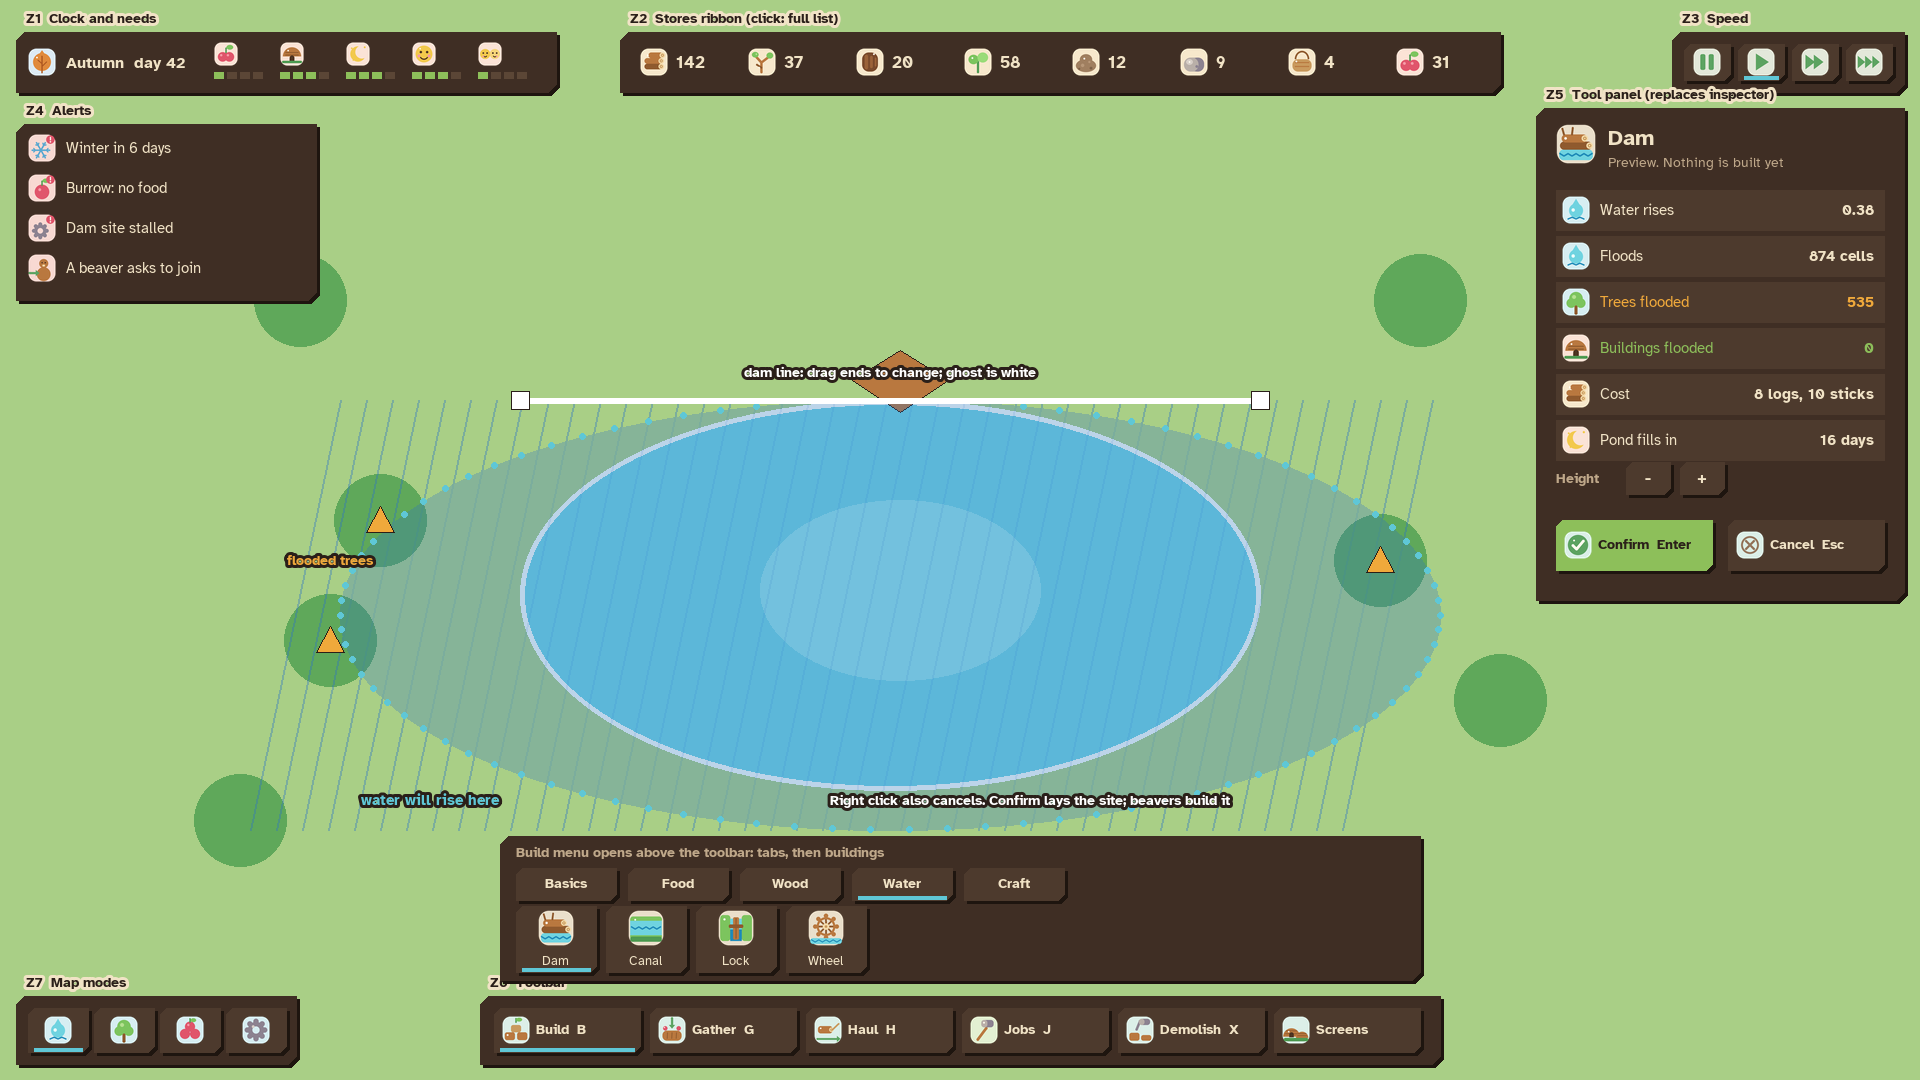
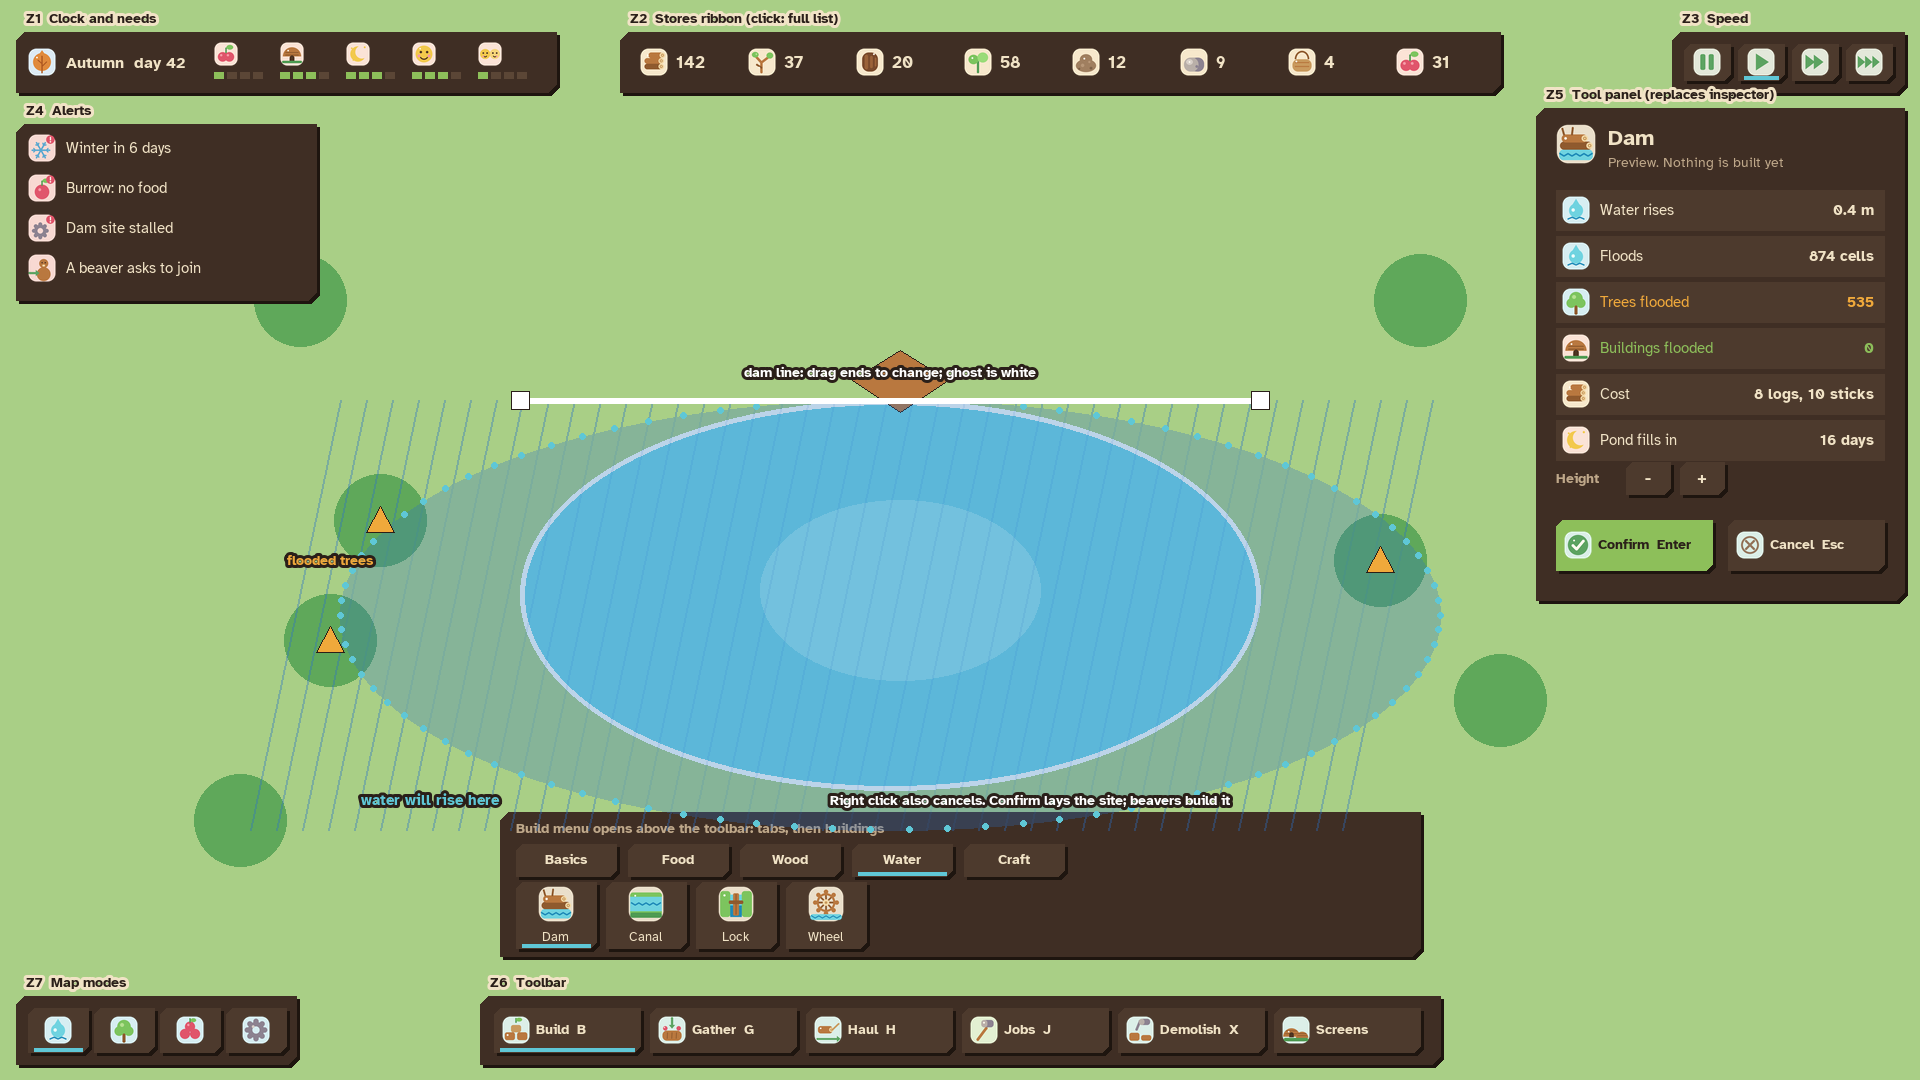
UI spec: check every replaced/removed file against its callers; keep opening.rs, move orders.rs contents; add flow_view.rs and sim_driver.rs; wireframe label and unit fixes

Changed region(s): [[0.25, 0.7333, 0.75, 0.9167]]

diff --git a/tools/make_ui_wireframe.py b/tools/make_ui_wireframe.py
@@ -111,14 +111,15 @@ class Canvas:
         for i, (ic, t) in enumerate(tools):
             self.btn((494 + i * 156, 1008, 640 + i * 156, 1052), t, ic, hot=(active == i), size=14)
         if menu:
-            self.plank((500, 836, 1420, 980))
-            self.text((516, 852), "Build menu opens above the toolbar: tabs, then buildings", 14, True, DIM)
+            # ends 24 px above the toolbar so the "Z6 Toolbar" tag stays readable
+            self.plank((500, 812, 1420, 956))
+            self.text((516, 828), "Build menu opens above the toolbar: tabs, then buildings", 14, True, DIM)
             tabs = ["Basics", "Food", "Wood", "Water", "Craft"]
             for i, t in enumerate(tabs):
-                self.btn((516 + i * 112, 868, 616 + i * 112, 900), t, None, hot=(i == 3), size=14)
+                self.btn((516 + i * 112, 844, 616 + i * 112, 876), t, None, hot=(i == 3), size=14)
             for i, (ic, t) in enumerate([("dam", "Dam"), ("canal", "Canal"), ("lock", "Lock"), ("waterwheel", "Wheel")]):
                 bx = 516 + i * 90
-                self.btn((bx, 906, bx + 80, 972), "", None, hot=(menu_hot == i)); self.ico(ic, bx + 22, 910, 36); self.text((bx + 40, 960), t, 13, False, PITH, "mm")
+                self.btn((bx, 882, bx + 80, 948), "", None, hot=(menu_hot == i)); self.ico(ic, bx + 22, 886, 36); self.text((bx + 40, 936), t, 13, False, PITH, "mm")
 
     def inspector(self):
         self.zone("Z5", "Inspector (selection)", (1536, 108, 1904, 620))
@@ -173,7 +174,7 @@ def dam():
     c.zone("Z5", "Tool panel (replaces inspector)", (1536, 108, 1904, 600))
     x = 1556
     c.ico("dam", x, 124, 40); c.text((x + 52, 138), "Dam", 22, True); c.text((x + 52, 162), "Preview. Nothing is built yet", 14, False, DIM)
-    c.row(x, 190, 328, "modewater", "Water rises", "0.38")
+    c.row(x, 190, 328, "modewater", "Water rises", "0.4 m")
     c.row(x, 236, 328, "modewater", "Floods", "874 cells")
     c.row(x, 282, 328, "modeforest", "Trees flooded", "535", AMBER)
     c.row(x, 328, 328, "shelter", "Buildings flooded", "0", MOSS)

diff --git a/docs/UI_SPEC.md b/docs/UI_SPEC.md
@@ -43,7 +43,7 @@ Every step uses the Pond mark for the active thing and Rail-outlined map text.
 |---|---|---|---|
 | 1 | **Settle choice** (`ui_wireframe_settle.png`) | Time starts paused. Three candidate banks are outlined on the map with a square marker and a name. Clicking one turns its outline Pond and fills the settle card (Z6 slot): one line of facts, three rows (wood, forage, flood risk), **Settle here** (primary) and **Cancel** (pick another). Settling unpauses and shows the Build menu with Burrow first. | **C10** (one-click placement), **C3** (panel on selection); paused start and card: **none** |
 | 2 | **Placement ghost** | A chosen building follows the cursor as a white outline; invalid shows a Berry hatch and a one-line reason. Left click places it as a site; Shift keeps the tool; right click or Esc cancels. The grid shows only while placing. Nothing is ever placed automatically. | **C10** (AoE2 grid, Anno 1800 single-click blueprint) |
-| 3 | **Dam water preview** (`ui_wireframe_dam.png`) | Dam: drag a line on the map, ends have square handles. While dragging and after, the map shows the new shoreline as a dotted Pond line, flooded land as a hatched Pond tint at 30% (hatch, not a flat fill, so it reads against the river), and an Amber triangle on every tree and building that would flood. The Z5 tool panel lists Water rises, Floods, Trees flooded (Amber when above 0), Buildings flooded, Cost, Pond fills in, and a Height - / + stepper. **Confirm** (Enter, primary) lays the site; **Cancel** (Esc, right click) discards. Nothing is built until Confirm. | **C10** (ghost before commit); confirm / cancel pair: **none**, own rule: no sim change without a visible preview |
+| 3 | **Dam water preview** (`ui_wireframe_dam.png`) | Dam: drag a line on the map, ends have square handles. While dragging and after, the map shows the new shoreline as a dotted Pond line, flooded land as a hatched Pond tint at 30% (hatch, not a flat fill, so it reads against the river), and an Amber triangle on every tree and building that would flood. The Z5 tool panel lists Water rises (world height units shown as metres, one decimal: "0.4 m"), Floods, Trees flooded (Amber when above 0), Buildings flooded, Cost, Pond fills in, and a Height - / + stepper. **Confirm** (Enter, primary) lays the site; **Cancel** (Esc, right click) discards. Nothing is built until Confirm. | **C10** (ghost before commit); confirm / cancel pair: **none**, own rule: no sim change without a visible preview |
 | 4 | **Drag to gather** (`ui_wireframe_jobs.png`) | G arms Gather (or the toolbar button). Drag on the map draws a dashed Pond rectangle with square handles and a count tag ("12 trees, 2 beavers will gather"). Releasing assigns the selected beavers, or idle adults if none are selected, and drops a flag; Esc or right click before release cancels. The area stays selectable and can be moved or resized by its handles. | **C8** (one key per area tool); **C9** (areas stay selectable) |
 | 5 | **Job assignment** | Three ways, all live: the job panel (section 4); the slots in a building's inspector (click an open slot, then a beaver); and a beaver's own job buttons. A change shows at once in the job panel counts. | **C6**, **C7** |
 
@@ -81,26 +81,42 @@ Identity: a lodge built of cut timber. This section is unchanged from the previo
 | Contrast | text 4.5:1 or better, markers 3:1; panels at least 95% opaque |
 
 ## 9. Current UI files: replaced and removed
-Paths under `crates/game/src/`. **Keep** = stays as is. **Replace** = the file is rewritten for this spec (same name unless a new name is given). **Remove** = deleted, its useful parts moved as stated.
+Paths under `crates/game/src/`. **Keep** = stays as is. **Edit** = stays, with the listed lines changed. **Replace** = rewritten for this spec (same name unless a new name is given). **Remove** = the file is deleted, and only after every caller in its row is moved.
 
-| File | Fate | Why |
+Rule: a file is only marked Remove if the callers column is empty or lists where each caller goes. Callers were found with `grep -rnE "(super|crate|ui)::<module>\b|\b<module>::"` over `crates/game/src` (commit `0503136`); `main.rs` / `ui/mod.rs` module and plugin lines are not listed.
+
+### 9a. Files
+
+| File | Fate | Why | Callers outside the file, and what happens to them |
+|---|---|---|---|
+| `ui/kit.rs`, `ui/kit_tests.rs`, `ui/icons.rs`, `ui/explain.rs` | Keep | widget kit, icon loader, number provenance already match section 8 | - |
+| `ui/screens.rs` | **Edit** | pure view-models stay; the Work screen becomes the job panel's view-model | `NavItem::Work` arm (line 439) is deleted; `work_screen` (line 603, builds `jobs_table`) is called by `ui/jobs.rs` instead. Its tests call `crate::opening::found` (lines 1099, 1116, 1124); `opening.rs` stays, see below |
+| `ui/gestures.rs` | **Edit** | gains `Gesture` and `gesture_command` from `ui/orders.rs` | line 13 `use super::orders::Gesture` is deleted (the type now lives in this file) |
+| `ui/gestures_tests.rs` | **Edit** | import path only | line 3 `crate::ui::orders::gesture_command` becomes `crate::ui::gestures::gesture_command` |
+| `ui/mapmodes.rs`, `ui/mapmodes_tests.rs`, `ui/events.rs` | **Edit** | import paths only | `crate::build::BuildUi` / `crate::build::pick_tool` become `crate::ui::placement::...` (`mapmodes.rs:541,548`, `mapmodes_tests.rs:2`, `events.rs:393`) |
+| `ui/status.rs` | **Replace** by `ui/topbar.rs` | Z1, Z2, Z3 in one top strip (speed is 1x, 2x, 3x, not 1x, 3x, 10x) | none; only the `StatusPlugin` line in `ui/mod.rs` |
+| `ui/buildbar.rs` | **Replace** by `ui/toolbar.rs` | today it is the six-screen navigation bar; Z6 becomes tools, and screens move under **Screens** | none; only `BuildBarPlugin` in `ui/mod.rs` |
+| `ui/modebar.rs` | **Replace** | keeps the four mode buttons only; legends and action buttons move to Build and Gather | none |
+| `ui/alerts.rs` | **Replace** | Z4 list with the shapes of section 6 | none |
+| `ui/inspector.rs` | **Replace** | Z5 layout in section 3 and the tool-panel mode | `ui/panels.rs:7,39,412,453` use `PanelShown` and `to_flow`; both keep their names |
+| `ui/selection.rs` (856 lines, has the view-model) | **Replace** | view-model gains worker slots and the workplace-first beaver panel | `inspector.rs:12`, `mapmodes.rs:21`, `panels.rs:12`, `screens.rs:48`, `shell.rs:60` use `Selection`, `Panel`; both keep their names and module path |
+| `ui/panels.rs` | **Replace** | draws only the centred screens and the job panel; per-zone click handling moves to each zone | `ui/events.rs:415` calls `panels::apply` (kept); `ShellUi`, `REFRESH_SECS`, `TOP` kept; `NAV_RESERVE` (bottom bar height) is dropped; its users `buildbar.rs`, `inspector.rs`, `modebar.rs` are replaced in this table |
+| `ui/shell.rs` | **Replace** | navigation state loses the bottom bar; gains tool state (Build, Gather, Haul, Jobs, Demolish) | `NavItem` stays as the **Screens** list. `NavItem::Work` is removed (Work becomes the Jobs panel), so `cli.rs:84` `--open work` is rejected; `--open` still accepts the other five. its only other match is `screens.rs:439,603` (edited above); `mapmodes.rs:22`, `panels.rs:10`, `screens.rs:18` import `NavItem` only and keep compiling |
+| `ui/mod.rs` | **Edit** | module and plugin list; drops `pub mod orders` | - |
+| `build.rs` (1264 lines) | **Replace** by `ui/buildmenu.rs` (menu), `ui/placement.rs` (ghost, dam preview, confirm / cancel, `BuildUi`, `pick_tool`), `ui/jobs.rs` (job panel and per-beaver buttons); `build_logic.rs` stays | one monolith held menu, ghost, dam readout and job buttons | `BuildUi`: `input.rs:23`, `map_orders.rs:7`, `ui/events.rs:393`, `ui/mapmodes.rs:541`, `ui/mapmodes_tests.rs:2`, `ui/panels.rs:223,360,386,509`; `pick_tool`: `ui/mapmodes.rs:548`, `ui/panels.rs:395`; `layout_build`, `build_input`: `flow_view.rs:142`; `DemoDam`: `flow_view.rs:578`. All move to `ui/placement.rs` with the same names; each caller changes only its path |
+| `flow.rs` opening parts (`Phase::Arrival`, `Phase::Scouting`, scouting systems) | **Replace** by `ui/settle.rs` | settle choice of section 5 row 1; it also fixes the restart path, which today falls back to the old scouting flow | `settle` and `best_site` **stay** in `flow.rs`; the guard at `flow.rs:512` (`phase != Scouting`) becomes "not yet settled". Callers: `opening.rs:3`, `ui/settle.rs` (new), and the autoplay arm `flow_view.rs:585-600`, which now matches the settle-choice phase. Other checks of the two phases: `flow_view.rs:486,545` and `map_orders.rs:117` switch to the settle-choice phase; `opening.rs:7` is deleted |
+| `flow_view.rs` (637 lines) | **Edit** | second, older HUD: Pause / 1x / 3x / 10x buttons, the bottom-left info panel and their layout (`compute_layout` lines 75-90, `spawn_ui` lines 157-191) are deleted; Z3 and Z5 replace them | Kept, because others use them: `ClickSet`, `UiLayout`, `WorldClick` (`build.rs:7`, `flow.rs:5,572`, `input.rs:4`, `map_orders.rs:11`, `ui/panels.rs:13,81-82`), the game-over panel with Keep watching / Restart, the banner (it shows the settle prompt), markers, fog, gizmos and `--autoplay-settle`. `Action::Speed` is only used by `ui/status.rs`, which is replaced |
+| `sim_driver.rs` | **Edit** | speeds become 1x, 2x, 3x | `Speed::{X1, X3, X10}` become `{X1, X2, X3}` and `ALL` / keys 1 2 3 follow (lines 17-35, 95). Callers to update: `flow_view.rs:78` (deleted with the old buttons), `flow_view.rs:593` (autoplay uses the fastest, now `X3`), tests `sim_driver.rs:125,137` |
+| `startflow.rs` | **Replace** by `ui/settle.rs` | same | `main.rs:60` registers `StartPlugin` (becomes `SettlePlugin`); `camera.rs:44` comment names `startflow::begin_new_game` (update the comment) |
+| `opening.rs` | **Edit** (kept) | it is the auto-settle test fixture, not a way to start | `ui/screens.rs:1099,1116,1124` tests call `found`. It keeps `found`; line 7 (`Phase::Scouting`) is dropped and it calls `settle` at `best_site` directly |
+| `map_orders.rs`, `map_overlay.rs` | **Edit** | Gather area and flooded-tile hatch drawing | `input.rs:12,24` (`map_orders`, `MapOrders`) and `modebar.rs:9,20` (`ActiveOverlay`, `ComputeSet`) keep these names |
+| `camera.rs` | Keep (comment edit only) | its only UI node is the full-screen warm glow (`spawn_glow`), which sits under every zone | `camera.rs:44` comment, see `startflow.rs` |
+| `ui/orders.rs` (48 lines) | **Remove** | it holds four unrelated things; each gets a proper home | `Gesture` and `gesture_command` move to `ui/gestures.rs` (callers `gestures.rs:13`, `gestures_tests.rs:3`, edited above). `Placement` / `placement` (an unimplemented stub returning "not implemented") are replaced by `ui/placement.rs`; no caller. The re-export of `events::{alerts, Alert, AlertKind}` has no caller. Delete the file and `pub mod orders` only after these moves |
+
+### 9b. Parts of files removed
+
+| Part | Fate | Why |
 |---|---|---|
-| `ui/kit.rs`, `ui/kit_tests.rs`, `ui/icons.rs`, `ui/explain.rs` | Keep | widget kit, icon loader, number provenance already match section 8 |
-| `ui/screens.rs`, `ui/gestures.rs`, `ui/gestures_tests.rs`, `ui/mapmodes.rs`, `ui/mapmodes_tests.rs`, `ui/events.rs` | Keep | pure view-models and gesture logic; only screen list and key names change |
-| `ui/status.rs` | **Replace** by `ui/topbar.rs` | Z1, Z2, Z3 in one top strip (speed is 1x, 2x, 3x, not 1x, 3x, 10x) |
-| `ui/buildbar.rs` | **Replace** by `ui/toolbar.rs` | today it is the six-screen navigation bar; Z6 becomes tools, and screens move under **Screens** |
-| `ui/inspector.rs` | **Replace** | Z5 layout in section 3 and the tool-panel mode |
-| `ui/selection.rs` | **Replace** | view-model gains worker slots and workplace-first beaver panel (currently a stub) |
-| `ui/modebar.rs` | **Replace** | keeps the four mode buttons only; legends and action buttons move to Build and Gather |
-| `ui/alerts.rs` | **Replace** | Z4 list with the shapes of section 6 |
-| `ui/panels.rs` | **Replace** | draws only the centred screens and the job panel; per-zone click handling moves to each zone |
-| `ui/shell.rs` | **Replace** | navigation state loses the bottom bar; gains tool state (Build, Gather, Haul, Jobs, Demolish) |
-| `ui/mod.rs` | Replace | plugin list updated |
-| `build.rs` (1264 lines) | **Replace** by `ui/buildmenu.rs` (menu), `ui/placement.rs` (ghost, dam preview, confirm / cancel), `ui/jobs.rs` (job panel and per-beaver buttons); `build_logic.rs` stays | one monolith held menu, ghost, dam readout and job buttons |
-| `flow.rs` opening parts (Arrival, Scouting, `settle`), `startflow.rs` | **Replace** by `ui/settle.rs` | settle choice of section 5 row 1; it also fixes the restart path, which today falls back to the old scouting flow |
-| `map_orders.rs`, `map_overlay.rs` | Replace (edit) | Gather area and flooded-tile hatch drawing |
-| `ui/orders.rs` | **Remove** | empty stub; nothing calls it |
-| `opening.rs` | **Remove** | auto-settle helper for old scenes; no longer a way to start |
 | Bottom navigation bar (Colony / Work / Stores / Buildings / Tech / Events buttons) | **Remove** | replaced by **Screens**; Work becomes the Jobs panel |
 | Per-beaver job button row inside the build panel (`build.rs` `BAction::SetJob`) | **Remove** | moved into the job panel and the beaver card |
 | Speed button 10x | **Remove** | three speeds only |
